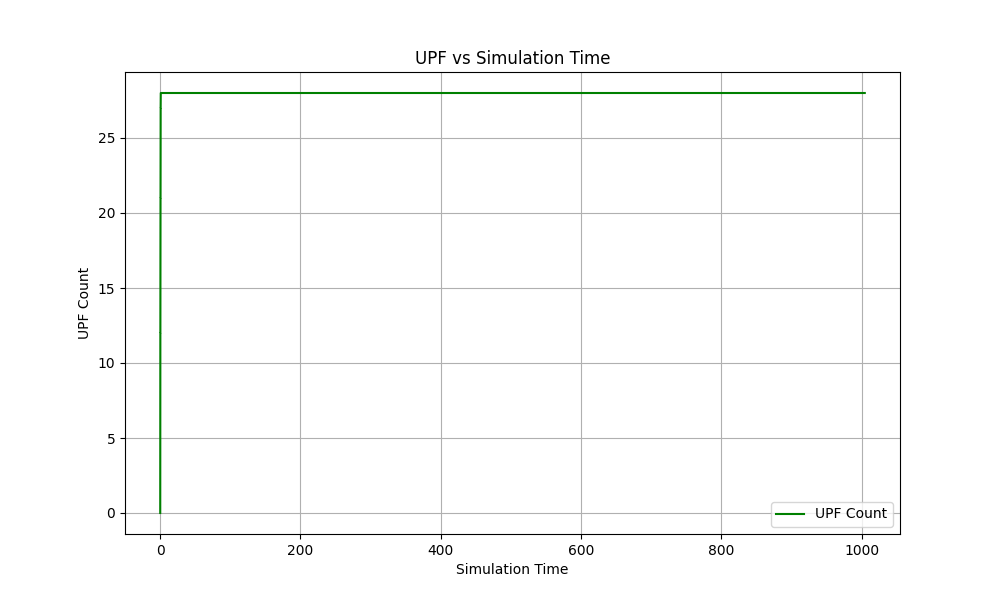
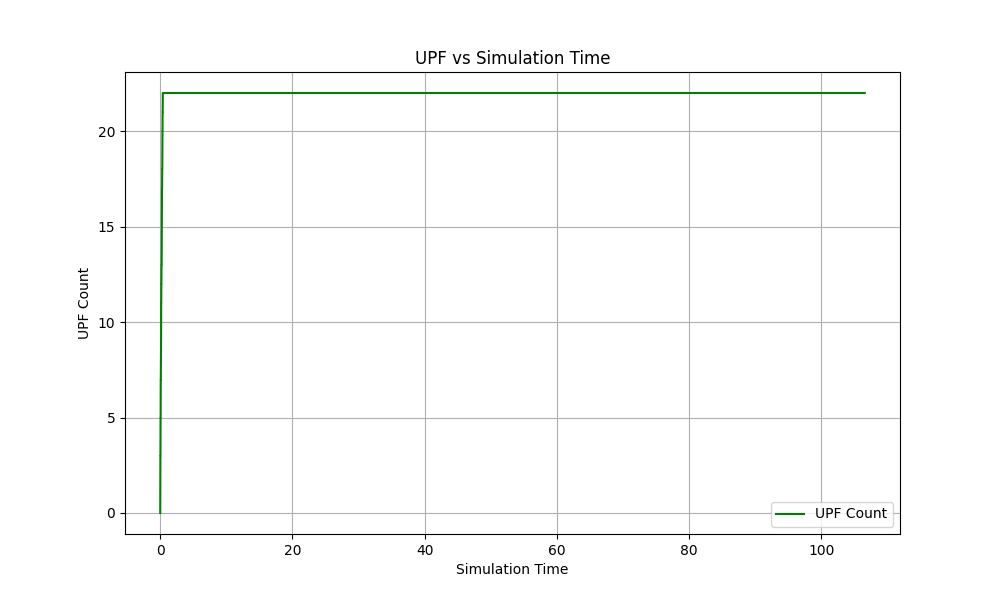
1. Removed constants from code and added them as parameters (lambda and mu) 2. Added separate module for post processing 3. Plotted Active PDUs and UPFs vs time 4. Made the case for sorting a user argument as well

diff --git a/main.py b/main.py
@@ -1,7 +1,6 @@
 import heapq
 import random
 import argparse
-import matplotlib.pyplot as plt
 import numpy as np
 from post_processing import generate_plots
 
@@ -312,9 +311,9 @@ if __name__ == "__main__":
     parser.add_argument("--max-sessions-per-upf", type=int, default=8, help="Maximum number of sessions per UPF (C)")
     parser.add_argument("--scale-out-threshold", type=int, default=3, help="Scale-out threshold (T1)")
     parser.add_argument("--scale-in-threshold", type=int, default=13, help="Scale-in threshold (T2)")
-    parser.add_argument("--simulation-time", type=int, default=1000, help="Simulation time")
-    parser.add_argument("--arrival_rate", type=int, default=500, help="Inter-arrival rate")
-    parser.add_argument("--mu", type=int, default=1, help="µ parameter for session duration")
+    parser.add_argument("--simulation-time", type=int, default=100, help="Simulation time")
+    parser.add_argument("--arrival_rate", type=int, default=500, help="Inter-arrival rate (λ)")
+    parser.add_argument("--mu", type=int, default=1, help="parameter for session duration (µ)")
     parser.add_argument("--output-file", type=str, default="simulation.log", help="File to write simulation outputs")
 
     args = parser.parse_args()
